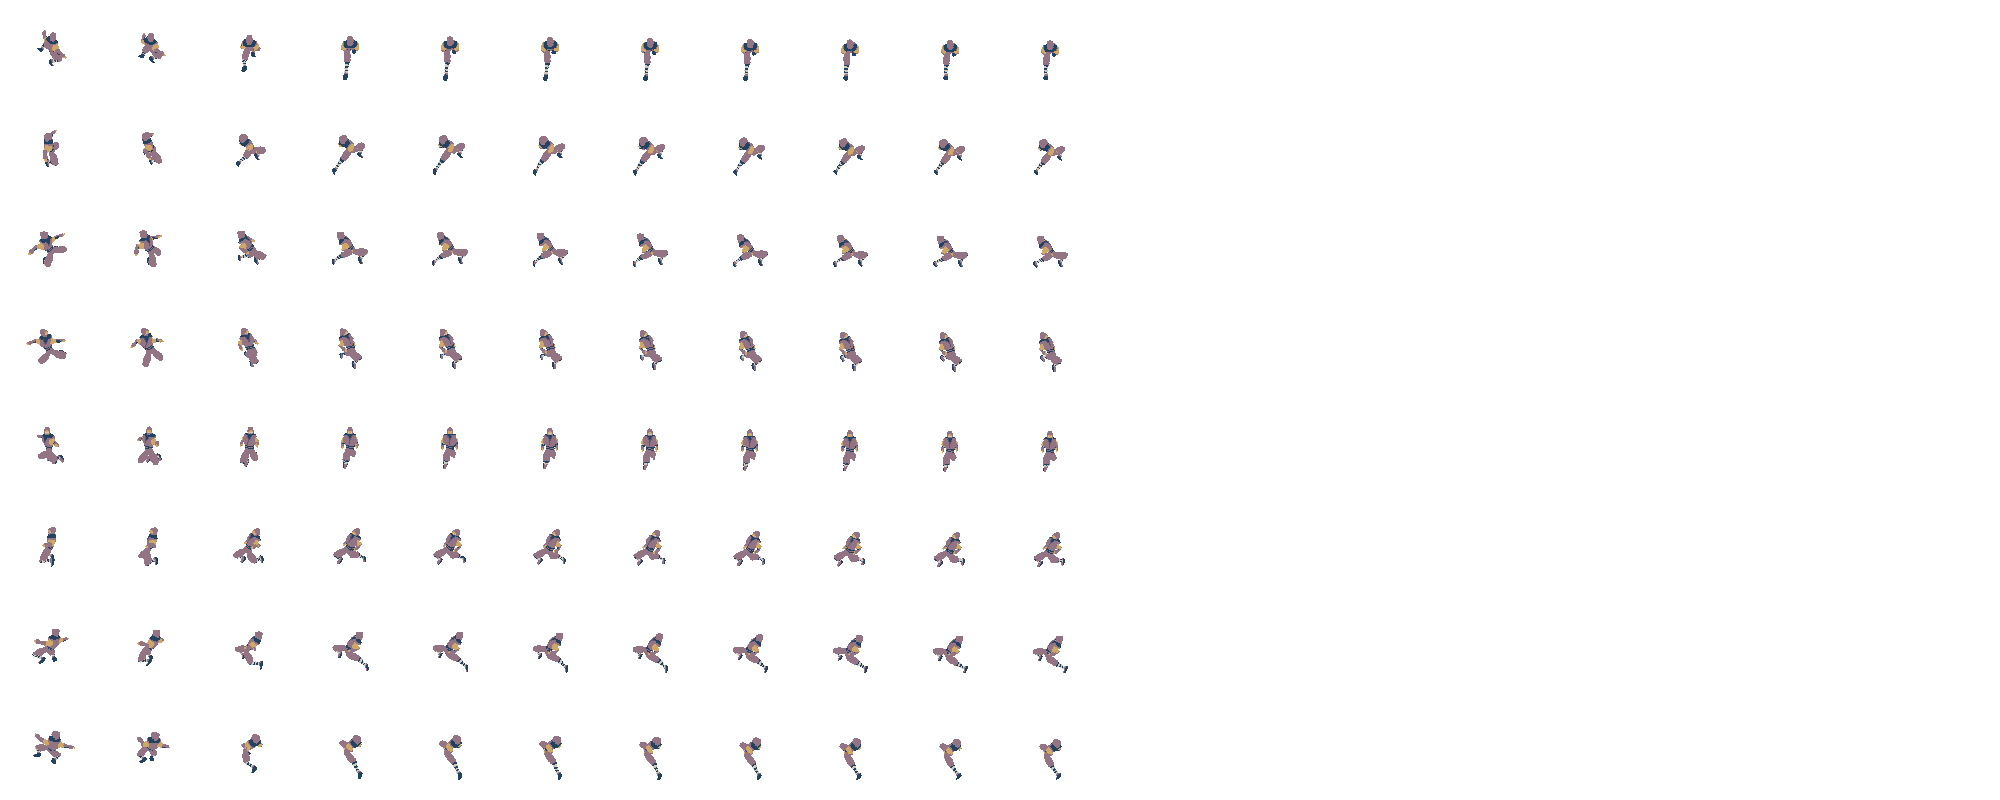
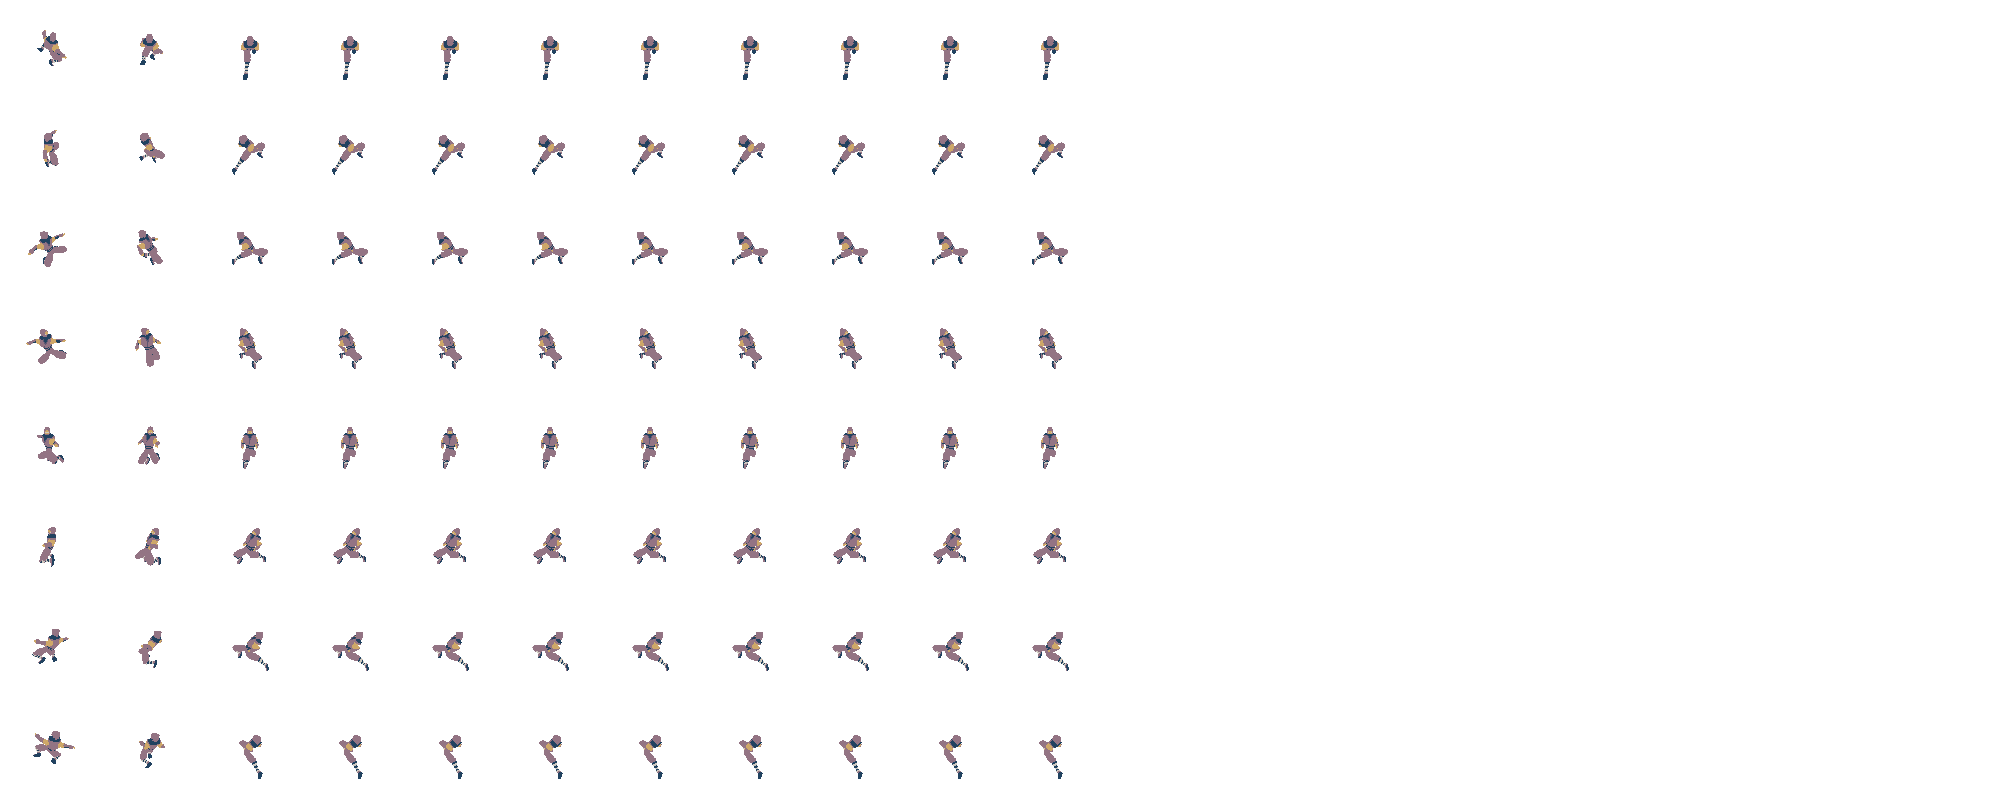
feat: Implement flying attacks hitboxes
This isn't the most beautiful imlpementation but oh well. I do want to
point out that the hitbox doesn't move when jumping. This is by design!
I realized while playtesting that this works better, though it actually
was more work to get this to work than if I had the hitbox moving along.

The fact that the hitbox stays in position help to sell the illusion of
depths, without it the player hits enemies that he should not be able to
hit.

diff --git a/src/player/state/attack.rs b/src/player/state/attack.rs
@@ -1,12 +1,13 @@
-use std::time::Duration;
+use std::{f32::consts::PI, time::Duration};
 
-use bevy::prelude::*;
+use bevy::{prelude::*, sprite::Anchor};
+use bevy_rapier2d::plugin::RapierTransformPropagateSet;
 
 use crate::{
-    assets::events::SpawnHitboxEvent,
+    assets::{events::SpawnHitboxEvent, PLAYER_SPRITE_SIZE},
     dude::{Attack, AttackForm, DudeState},
     player::Player,
-    world::collisions::{spawn_attack_effect, HitboxType},
+    world::collisions::{spawn_attack_effect, AttackArc, AttackArcGFX, HitboxType},
     GameAssets, GameState,
 };
 
@@ -101,6 +102,67 @@ fn spawn_attack_arcs(
     }
 }
 
+fn move_attack_arcs_jumping(
+    q_players: Query<(&Children, &Sprite), With<Player>>,
+    q_attack_arcs: Query<(&Children, &AttackArc), Without<Player>>,
+    mut q_attack_arc_gfxs: Query<&mut Transform, With<AttackArcGFX>>,
+) {
+    for (player_children, sprite) in &q_players {
+        let anchor = match sprite.anchor {
+            Anchor::Custom(v) => Vec2::new(v.x, -v.y) * PLAYER_SPRITE_SIZE as f32,
+            _ => continue,
+        };
+
+        for child in player_children {
+            let Ok((children, attack_arc)) = q_attack_arcs.get(*child) else {
+                continue;
+            };
+
+            for child in children {
+                let Ok(mut transform) = q_attack_arc_gfxs.get_mut(*child) else {
+                    continue;
+                };
+
+                let dir = anchor_rotation_direction(attack_arc.dir());
+                transform.translation = anchor.rotate(dir).extend(0.0);
+            }
+        }
+    }
+}
+
+fn anchor_rotation_direction(dir: Vec2) -> Vec2 {
+    let angle = dir.angle_between(Vec2::Y);
+
+    if angle.abs() < PI / 8.0 {
+        // Top
+        -dir
+    } else if angle.abs() < 3.0 / 8.0 * PI {
+        // Diagonal Up
+        if angle > 0.0 {
+            // Top Right
+            Vec2::new(dir.y, -dir.x)
+        } else {
+            // Top Left
+            Vec2::new(-dir.y, dir.x)
+        }
+    } else if angle.abs() < 5.0 / 8.0 * PI {
+        // Side
+        dir
+    } else if angle.abs() < 7.0 / 8.0 * PI {
+        // Diagonal Down
+        if angle > 0.0 {
+            // Bottom Right
+            Vec2::new(-dir.y, dir.x)
+        } else {
+            // Bottom Left
+            Vec2::new(dir.y, -dir.x)
+        }
+    } else {
+        // Bottom
+        -dir
+    }
+}
+
 pub struct PlayerAttackStatePlugin;
 
 impl Plugin for PlayerAttackStatePlugin {
@@ -108,6 +170,10 @@ impl Plugin for PlayerAttackStatePlugin {
         app.add_systems(
             Update,
             (spawn_attack_arcs,).run_if(not(in_state(GameState::AssetLoading))),
+        )
+        .add_systems(
+            PostUpdate,
+            move_attack_arcs_jumping.before(RapierTransformPropagateSet),
         );
     }
 }

diff --git a/src/world/collisions.rs b/src/world/collisions.rs
@@ -32,8 +32,12 @@ pub struct Hurtbox {
 }
 
 #[derive(Component)]
-struct AttackArc {
+pub struct AttackArcGFX;
+
+#[derive(Component)]
+pub struct AttackArc {
     timer: Timer,
+    dir: Vec2,
 }
 
 impl Hitbox {
@@ -48,11 +52,16 @@ impl Hitbox {
     }
 }
 
-impl Default for AttackArc {
-    fn default() -> Self {
+impl AttackArc {
+    fn new(dir: Vec2) -> Self {
         Self {
             timer: Timer::from_seconds(0.2, TimerMode::Once),
+            dir,
         }
+    }
+
+    pub fn dir(&self) -> Vec2 {
+        self.dir
     }
 }
 
@@ -123,26 +132,33 @@ pub fn spawn_attack_effect(
     let mut animator = AnimationPlayer2D::default();
     animator.play(animation);
 
-    let pos = pos_offset + direction.normalize_or_zero() * direction_magnitude;
+    let dir = direction.normalize_or_zero();
+    let pos = pos_offset + dir * direction_magnitude;
     let transform = if with_rotation {
         Transform::from_translation(pos.extend(0.0)).with_rotation(quat_from_vec2(direction))
     } else {
         Transform::from_translation(pos.extend(0.0))
     };
 
-    let attack_arc = commands
+    let gfx = commands
         .spawn((
-            AttackArc::default(),
+            AttackArcGFX,
             animator,
-            YSortChild(10.0),
             SpriteBundle {
                 texture,
-                transform,
                 ..default()
             },
             TextureAtlas::from(layout),
         ))
-        .add_child(hitbox)
+        .id();
+
+    let attack_arc = commands
+        .spawn((
+            AttackArc::new(dir),
+            YSortChild(10.0),
+            SpatialBundle::from_transform(transform),
+        ))
+        .push_children(&[hitbox, gfx])
         .id();
     commands.entity(entity).add_child(attack_arc);
 }
@@ -169,10 +185,14 @@ fn disable_attack_arc_hitboxes(
 
 fn despawn_attack_arcs(
     mut commands: Commands,
-    q_attack_arcs: Query<(Entity, &AnimationPlayer2D), With<AttackArc>>,
+    q_attack_arc_gfxs: Query<(&Parent, &AnimationPlayer2D), With<AttackArcGFX>>,
+    q_attack_arcs: Query<Entity, With<AttackArc>>,
 ) {
-    for (entity, animator) in &q_attack_arcs {
+    for (parent, animator) in &q_attack_arc_gfxs {
         if animator.just_finished() {
+            let Ok(entity) = q_attack_arcs.get(parent.get()) else {
+                continue;
+            };
             commands.entity(entity).despawn_recursive();
         }
     }

diff --git a/src/dude/attack.rs b/src/dude/attack.rs
@@ -77,8 +77,18 @@ impl Attack {
                 20.0,
                 Vec2::new(0.0, -16.0),
             ),
-            Attack::Dropkick => todo!(),
-            Attack::Kneekick => todo!(),
+            Attack::Dropkick => (
+                Vec2::default(),
+                Collider::cuboid(10.0, 8.0),
+                20.0,
+                Vec2::new(0.0, -6.0),
+            ),
+            Attack::Kneekick => (
+                Vec2::default(),
+                Collider::cuboid(8.0, 6.0),
+                16.0,
+                Vec2::new(0.0, -4.0),
+            ),
         }
     }
 

diff --git a/src/player/movement.rs b/src/player/movement.rs
@@ -41,7 +41,7 @@ fn move_player_attacking(mut q_players: Query<(&AnimationPlayer2D, &mut Velocity
                 continue;
             };
 
-            let x = animator.elapsed() / duration + 0.1;
+            let x = animator.elapsed() / duration;
             let multiplier = (1.0 - x.powi(2)).max(0.0);
             velocity.linvel = player.state_machine.attack_direction() * 400.0 * multiplier;
         } else if player.state_machine.attack_eq(Attack::Dropkick)

diff --git a/src/player/state/jumping.rs b/src/player/state/jumping.rs
@@ -4,13 +4,14 @@ use bevy::prelude::*;
 use bevy_trickfilm::prelude::*;
 
 use crate::{
+    assets::PLAYER_SPRITE_SIZE,
     dude::{Attack, DudeState, JumpingState},
     player::Player,
 };
 
 use super::PlayerStateSystemSet;
 
-const JUMP_HEIGHT: f32 = 30.0 / 100.0;
+const JUMP_HEIGHT: f32 = 30.0 / PLAYER_SPRITE_SIZE as f32;
 
 #[derive(Default)]
 pub struct Jumping {

diff --git a/src/assets/mod.rs b/src/assets/mod.rs
@@ -4,6 +4,8 @@ use bevy::prelude::*;
 use bevy_asset_loader::prelude::*;
 use bevy_trickfilm::prelude::*;
 
+pub const PLAYER_SPRITE_SIZE: u32 = 100;
+
 pub struct AssetPlugin;
 
 impl Plugin for AssetPlugin {
